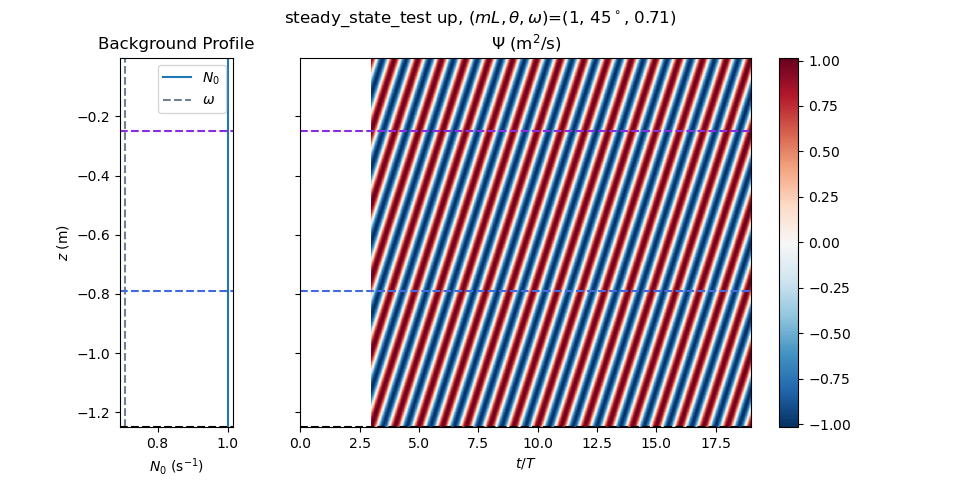
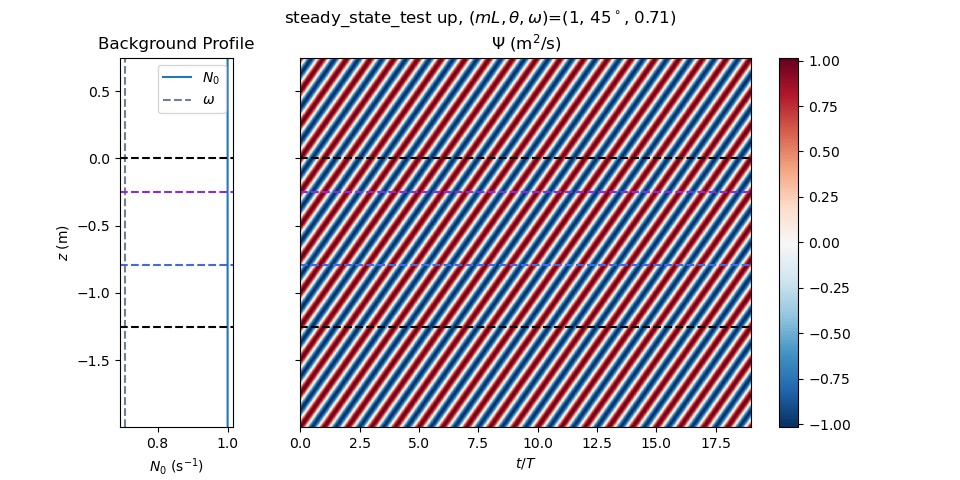
Plotting both trimmed and full up and dn wavefields

diff --git a/steady_state_test.py b/steady_state_test.py
@@ -145,7 +145,7 @@ t_tr, psi_tr = hf.trim_data_t(t, psi_tr, T_cutoff, T)
 
 # Plot trimmed wavefield
 if sbp.plot_spacetime:
-    hf.plot_z_vs_t(z_tr, t_tr, T, psi_tr, BP_tr, mL, theta, omega, z_I=z_I, z_T=z_T, z0_dis=z0_dis, zf_dis=zf_dis, plot_full_domain=False, T_cutoff=T_cutoff, title_str=run_name, filename='ss_1D_wave_tr.png')
+    hf.plot_z_vs_t(z_tr, t_tr, T, psi_tr, BP_tr, mL, theta, omega, z_I=z_I, z_T=z_T, z0_dis=z0_dis, zf_dis=zf_dis, plot_full_domain=plt_fd, T_cutoff=T_cutoff, title_str=run_name, filename='ss_1D_wave_tr.png')
 
 ###############################################################################
 # Plot spectral form of data
@@ -159,12 +159,6 @@ if sbp.plot_spectra:
 ###############################################################################
 # Perform complex demodulation
 
-# Trimming the data
-# tr_z, tr_t, tr_psi = hf.trim_data(z, t, psi, z0_dis=z0_dis, zf_dis=zf_dis, T_cutoff=T_cutoff, T=T)
-# print('tr_z.shape=',tr_z.shape)
-# print('tr_t.shape=',tr_t.shape)
-# print('tr_psi.shape=',tr_psi.shape)
-
 t_then_z = True
 up_field, dn_field = hfCD.Complex_Demodulate(t_then_z, t, z, kz_sim, psi, dt, omega)
 tr_up_field, tr_dn_field = hfCD.Complex_Demodulate(t_then_z, t_tr, z_tr, kz_dis, psi_tr, dt, omega)
@@ -172,11 +166,16 @@ tr_up_field, tr_dn_field = hfCD.Complex_Demodulate(t_then_z, t_tr, z_tr, kz_dis,
 ###############################################################################
 # Plotting up and downward propagating waves
 
+# Trimmed case
 if sbp.plot_up_dn:
-    hf.plot_z_vs_t(z_tr, t_tr, T, tr_up_field.real, BP_tr, mL, theta, omega, z_I=z_I, z_T=z_T, z0_dis=z0_dis, zf_dis=zf_dis,  plot_full_domain=True, T_cutoff=None, title_str=run_name+' up', filename='ss_1D_up_field.png')
-    hf.plot_z_vs_t(z_tr, t_tr, T, tr_dn_field.real, BP_tr, mL, theta, omega, z0_dis=z0_dis, zf_dis=zf_dis, plot_full_domain=True, T_cutoff=None, title_str=run_name+' dn', filename='ss_1D_dn_field.png')
+    hf.plot_z_vs_t(z_tr, t_tr, T, tr_up_field.real, BP_tr, mL, theta, omega, z_I=z_I, z_T=z_T, z0_dis=z0_dis, zf_dis=zf_dis,  plot_full_domain=plt_fd, T_cutoff=None, title_str=run_name+' up', filename='ss_1D_up_field_tr.png')
+    hf.plot_z_vs_t(z_tr, t_tr, T, tr_dn_field.real, BP_tr, mL, theta, omega, z_I=z_I, z_T=z_T, z0_dis=z0_dis, zf_dis=zf_dis, plot_full_domain=plt_fd, T_cutoff=None, title_str=run_name+' dn', filename='ss_1D_dn_field_tr.png')
 
-# hf.plot_z_vs_t(z_tr, t_tr, T, psi_tr, BP_tr, mL, theta, omega, z_I=z_I, z_T=z_T, z0_dis=z0_dis, zf_dis=zf_dis, plot_full_domain=True, T_cutoff=T_cutoff, title_str=run_name, filename='ss_1D_wave_tr.png')
+# Full domain
+if sbp.plot_up_dn:
+    hf.plot_z_vs_t(z, t, T, up_field.real, BP_array, mL, theta, omega, z_I=z_I, z_T=z_T, z0_dis=z0_dis, zf_dis=zf_dis,  plot_full_domain=True, T_cutoff=None, title_str=run_name+' up', filename='ss_1D_up_field.png')
+    hf.plot_z_vs_t(z, t, T, dn_field.real, BP_array, mL, theta, omega, z_I=z_I, z_T=z_T, z0_dis=z0_dis, zf_dis=zf_dis, plot_full_domain=True, T_cutoff=None, title_str=run_name+' dn', filename='ss_1D_dn_field.png')
+
 ###############################################################################
 # Measuring the transmission coefficient
 
